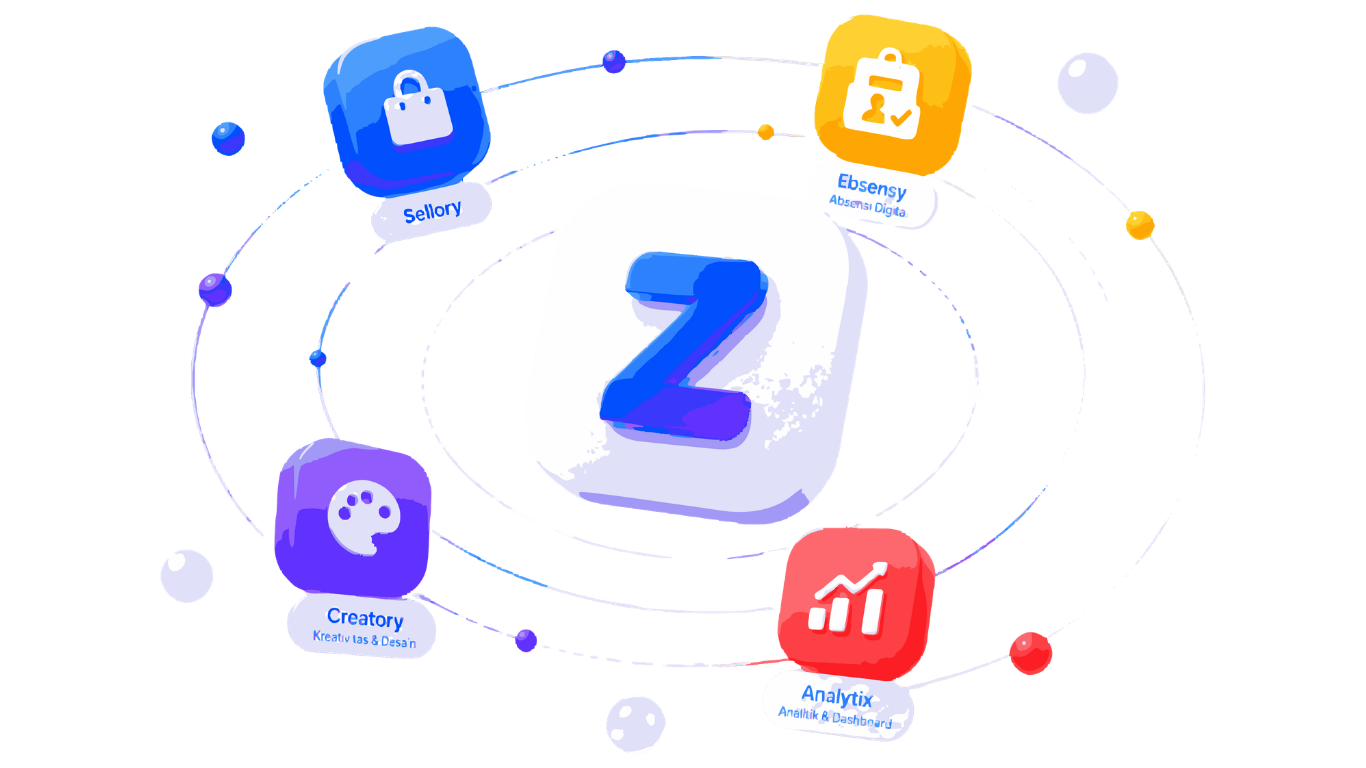
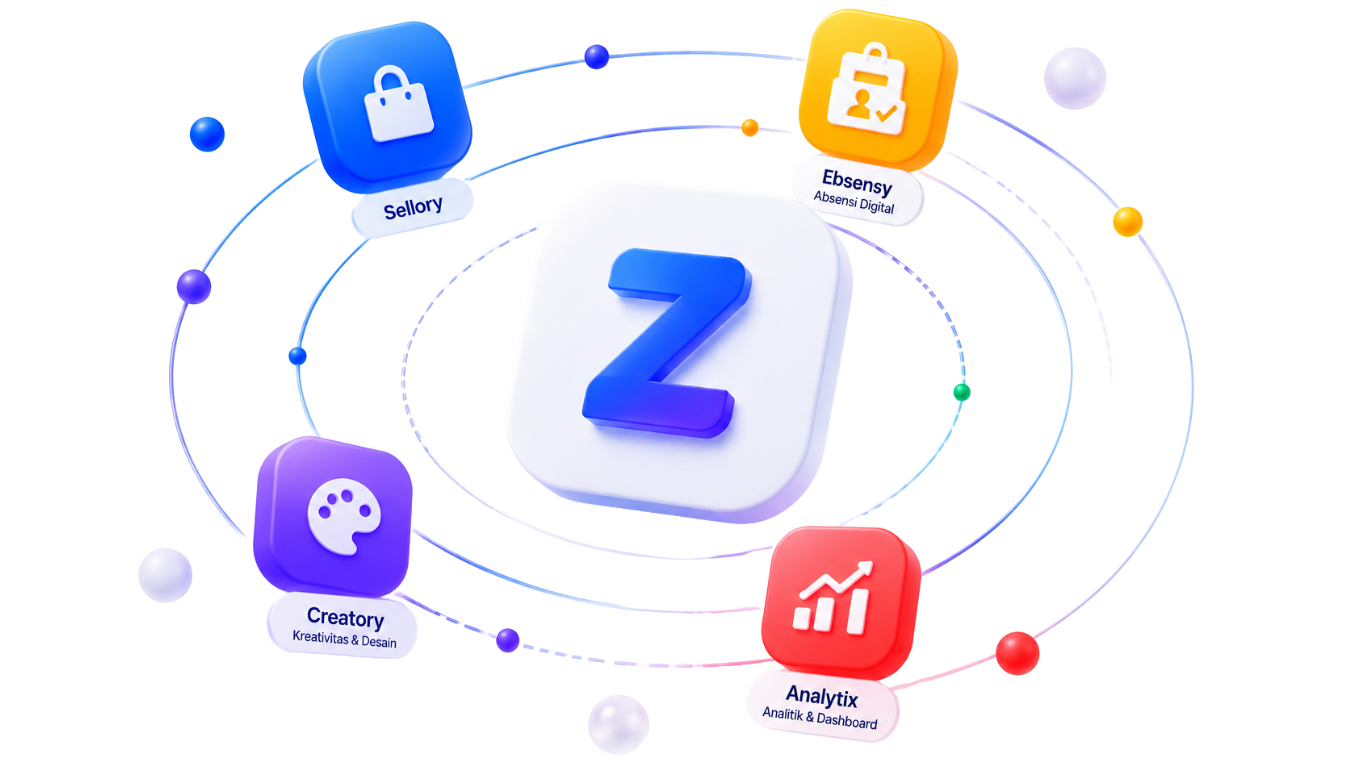
sebelum-itu

diff --git a/index.html b/index.html
@@ -606,7 +606,7 @@
     <div class="section-container labs-connect-container">
 
       <h2 id="connect-title" class="labs-headline reveal-up" style="--delay:0.1s">
-        Kami baru memulai.<br>Bergabunglah dalam perjalanan ini.
+        Kami baru memulai<br>Bergabunglah dalam perjalanan ini
       </h2>
       <p class="labs-connect-sub reveal-up" style="--delay:0.15s">
         Zamify adalah awal dari perjalanan menuju masa depan di mana teknologi digital menjadi fondasi yang memberdayakan setiap individu dan bisnis di Indonesia. Bersama, kita bangun ekosistem digital Indonesia.